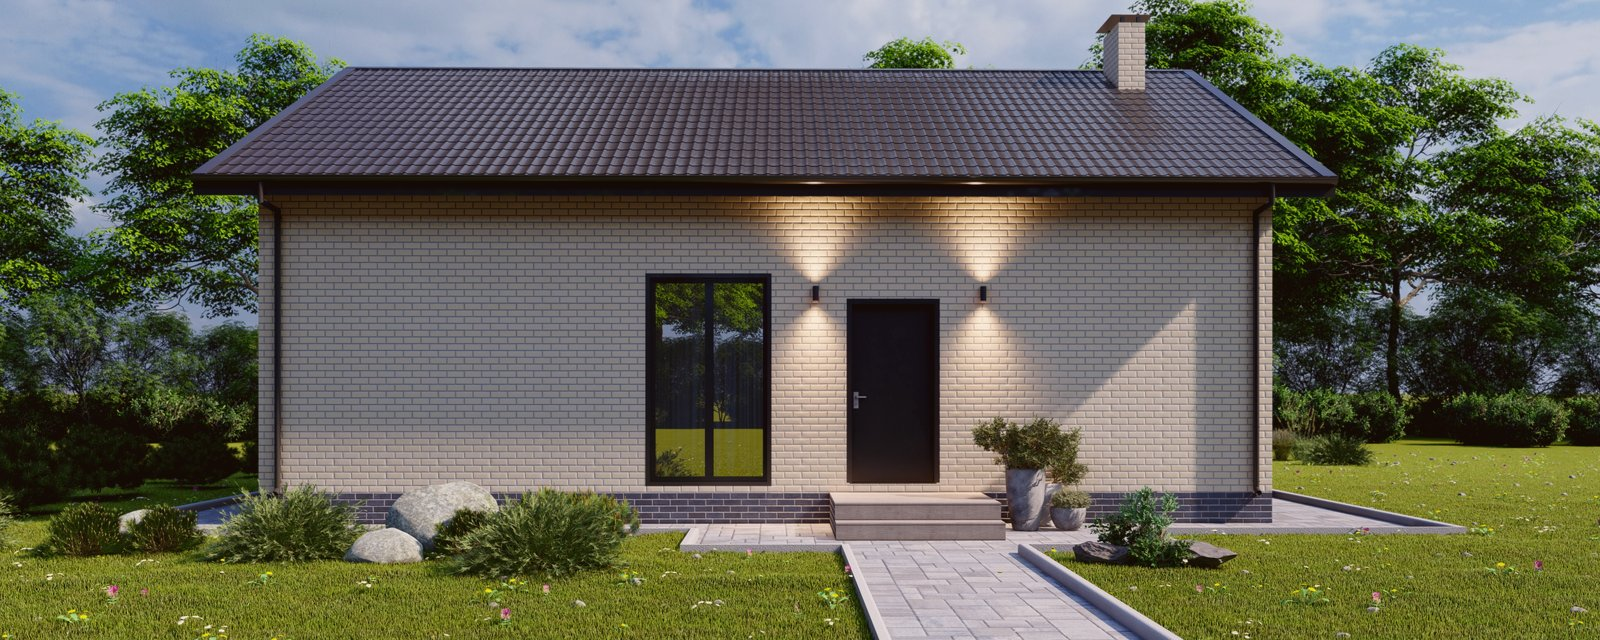
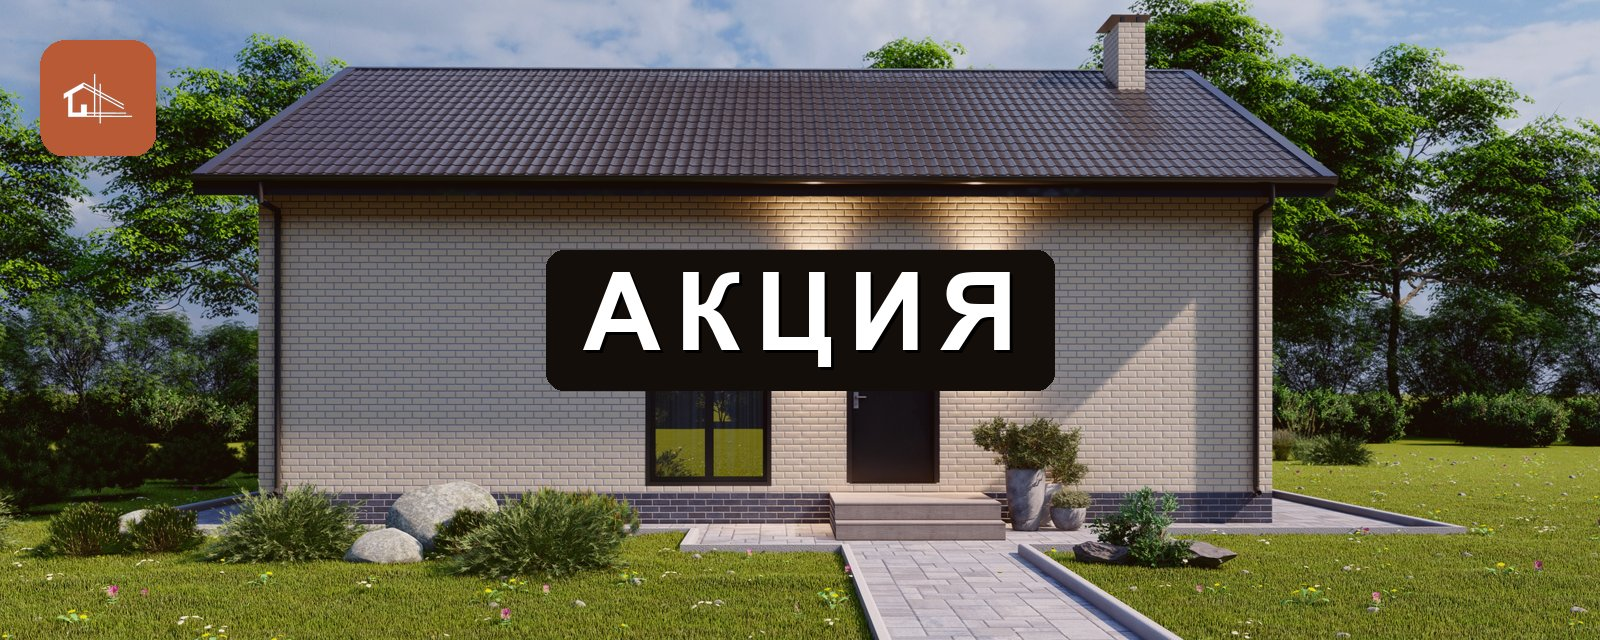
feat(promotions): лого + «АКЦИЯ» на баннерах, фикс пропорций под них
generate_promo_banners.py теперь впечатывает в картинку фирменную
лого-плашку (терракотовый квадрат + белый домик, как в og.png, но из
прозрачного logo.png) в левый верхний угол и крупное «АКЦИЯ» по
центру с тенью — баннер выглядит завершённым рекламным креативом сам
по себе.

Из-за этого блок баннера на сайте (PromoBanner + хедер /akcii/[slug])
теперь фиксирует пропорции 2.5:1 под картинку явно (aspect-[2.5/1]) —
раньше высота блока определялась содержимым, и произвольный
object-cover обрезал верх фото вместе с лого. Динамический текст
(скидка/срок/CTA) переехал в компактную плашку снизу, чтобы не
накладываться на зашитые в картинку лого и «АКЦИЯ».

Changed region(s): [[0.3438, 0.375, 0.6562, 0.625], [0.0, 0.0625, 0.125, 0.25]]

diff --git a/frontend/src/components/PromoBanner.tsx b/frontend/src/components/PromoBanner.tsx
@@ -14,34 +14,64 @@ export default function PromoBanner({ promotion }: { promotion?: Promotion | nul
 
   const hasImage = Boolean(promotion.banner_image);
 
+  // Готовая картинка баннера (banner_image) — это законченный рекламный
+  // креатив: фото дома + фирменный лого в углу + слово «АКЦИЯ» вшиты
+  // прямо в файл (см. backend/scripts/generate_promo_banners.py).
+  // Блок фиксируем по её пропорциям (2.5:1), иначе flex-контейнер
+  // произвольной высоты обрежет верх картинки через object-cover —
+  // лого и текст на фото могут просто не попасть в кадр.
+  // Динамический текст (цена/даты/CTA) едет в нижнюю плашку, чтобы не
+  // накладываться на зашитые в картинку элементы.
+  if (hasImage) {
+    return (
+      <section className="container-rs pt-8 sm:pt-12">
+        <div className="relative overflow-hidden rounded-[var(--rs-radius)] shadow-[var(--rs-shadow)] aspect-[2.5/1]">
+          <Image
+            src={resolveMediaUrl(promotion.banner_image)}
+            alt=""
+            fill
+            sizes="(min-width: 1200px) 1200px, 100vw"
+            quality={70}
+            className="object-cover"
+            priority
+          />
+          <div className="absolute inset-0 promo-banner-bottom-overlay" />
+          <div className="absolute inset-x-0 bottom-0 p-3 sm:p-6 flex items-center justify-between gap-3">
+            <div className="min-w-0">
+              <span className="hidden sm:inline-flex items-center gap-1.5 text-[11px] font-bold uppercase tracking-wide bg-white/15 px-2.5 py-1 rounded-full text-white">
+                <Flame size={13} /> {promotion.badge_label}
+              </span>
+              <div className="mt-0 sm:mt-1.5 flex flex-wrap gap-x-3 gap-y-0.5 text-[12px] sm:text-[12.5px] text-white/90 font-semibold">
+                <span>Действует до {formatDate(promotion.ends_at)}</span>
+                {houseCount > 0 && (
+                  <span className="hidden sm:inline">
+                    {houseCount} {houseCount === 1 ? "дом участвует" : "дома/домов участвуют"}
+                  </span>
+                )}
+              </div>
+            </div>
+            <Link
+              href={`/akcii/${promotion.slug}`}
+              className="shrink-0 inline-flex items-center gap-1.5 sm:gap-2 bg-white text-[var(--rs-brand-2)] font-bold rounded-full px-3.5 sm:px-5 py-2 sm:py-3 text-[12.5px] sm:text-[14px] hover:bg-white/90 transition-colors"
+            >
+              <span className="hidden sm:inline">Подробнее об акции</span>
+              <span className="sm:hidden">Подробнее</span>
+              <ArrowRight size={16} />
+            </Link>
+          </div>
+        </div>
+      </section>
+    );
+  }
+
   return (
     <section className="container-rs pt-8 sm:pt-12">
-      <div
-        className={`relative overflow-hidden rounded-[var(--rs-radius)] shadow-[var(--rs-shadow)] p-6 sm:p-10 flex flex-col sm:flex-row items-start sm:items-center justify-between gap-6 ${hasImage ? "" : "promo-banner"}`}
-      >
-        {hasImage && (
-          <>
-            <Image
-              src={resolveMediaUrl(promotion.banner_image)}
-              alt=""
-              fill
-              sizes="(min-width: 1200px) 1200px, 100vw"
-              quality={70}
-              className="object-cover"
-              style={{ zIndex: 0 }}
-              priority
-            />
-            <div
-              className="absolute inset-0 promo-banner-overlay"
-              style={{ zIndex: 1 }}
-            />
-          </>
-        )}
-        <div className="min-w-0 relative" style={{ zIndex: 2 }}>
-          <span className="inline-flex items-center gap-1.5 text-[11px] font-bold uppercase tracking-wide bg-white/15 px-2.5 py-1 rounded-full text-white">
+      <div className="promo-banner relative overflow-hidden rounded-[var(--rs-radius)] shadow-[var(--rs-shadow)] p-6 sm:p-10 flex flex-col sm:flex-row items-start sm:items-center justify-between gap-6">
+        <div className="min-w-0">
+          <span className="inline-flex items-center gap-1.5 text-[11px] font-bold uppercase tracking-wide bg-white/15 px-2.5 py-1 rounded-full">
             <Flame size={13} /> {promotion.badge_label}
           </span>
-          <h2 className="h-display mt-3 font-extrabold leading-tight text-white text-[24px] sm:text-[32px]">
+          <h2 className="h-display mt-3 font-extrabold leading-tight text-[24px] sm:text-[32px]">
             {title}
           </h2>
           {subtitle && (
@@ -60,8 +90,7 @@ export default function PromoBanner({ promotion }: { promotion?: Promotion | nul
         </div>
         <Link
           href={`/akcii/${promotion.slug}`}
-          className="relative shrink-0 inline-flex items-center gap-2 bg-white text-[var(--rs-brand-2)] font-bold rounded-full px-5 py-3 text-[14px] hover:bg-white/90 transition-colors"
-          style={{ zIndex: 2 }}
+          className="shrink-0 inline-flex items-center gap-2 bg-white text-[var(--rs-brand-2)] font-bold rounded-full px-5 py-3 text-[14px] hover:bg-white/90 transition-colors"
         >
           Подробнее об акции <ArrowRight size={16} />
         </Link>

diff --git a/frontend/src/app/akcii/[slug]/page.tsx b/frontend/src/app/akcii/[slug]/page.tsx
@@ -44,25 +44,35 @@ export default async function PromotionPage({ params }: { params: Promise<{ slug
       </div>
 
       <div className="container-rs">
-        <div
-          className={`relative overflow-hidden rounded-[var(--rs-radius)] shadow-[var(--rs-shadow)] p-6 sm:p-10 ${p.banner_image ? "" : "promo-banner"}`}
-        >
-          {p.banner_image && (
-            <>
-              <Image
-                src={resolveMediaUrl(p.banner_image)}
-                alt=""
-                fill
-                sizes="(min-width: 1200px) 1200px, 100vw"
-                quality={70}
-                className="object-cover"
-                style={{ zIndex: 0 }}
-                priority
-              />
-              <div className="absolute inset-0 promo-banner-overlay" style={{ zIndex: 1 }} />
-            </>
-          )}
-          <div className="relative" style={{ zIndex: 2 }}>
+        {p.banner_image ? (
+          // banner_image — готовый креатив (фото + лого + «АКЦИЯ» уже
+          // вшиты в файл, см. generate_promo_banners.py). Фиксируем блок
+          // по её пропорциям, иначе object-cover при произвольной высоте
+          // обрежет верх картинки и лого пропадёт из кадра. Заголовок —
+          // компактной плашкой снизу, полный текст акции — в карточке
+          // «Условия акции» ниже, тут не дублируем.
+          <div className="relative overflow-hidden rounded-[var(--rs-radius)] shadow-[var(--rs-shadow)] aspect-[2.5/1]">
+            <Image
+              src={resolveMediaUrl(p.banner_image)}
+              alt=""
+              fill
+              sizes="(min-width: 1200px) 1200px, 100vw"
+              quality={70}
+              className="object-cover"
+              priority
+            />
+            <div className="absolute inset-0 promo-banner-bottom-overlay" />
+            <div className="absolute inset-x-0 bottom-0 p-4 sm:p-8">
+              <span className="hidden sm:inline-flex items-center gap-1.5 text-[11px] font-bold uppercase tracking-wide bg-white/15 px-2.5 py-1 rounded-full text-white">
+                <Flame size={13} /> {p.badge_label}
+              </span>
+              <h1 className="h-display mt-0 sm:mt-2 font-extrabold leading-tight text-white text-[20px] sm:text-[32px] line-clamp-2">
+                {p.banner_title || p.title}
+              </h1>
+            </div>
+          </div>
+        ) : (
+          <div className="promo-banner relative overflow-hidden rounded-[var(--rs-radius)] shadow-[var(--rs-shadow)] p-6 sm:p-10">
             <span className="inline-flex items-center gap-1.5 text-[11px] font-bold uppercase tracking-wide bg-white/15 px-2.5 py-1 rounded-full text-white">
               <Flame size={13} /> {p.badge_label}
             </span>
@@ -75,7 +85,7 @@ export default async function PromotionPage({ params }: { params: Promise<{ slug
               </p>
             )}
           </div>
-        </div>
+        )}
 
         <div className="mt-8 grid gap-6 lg:grid-cols-[minmax(0,1fr)_360px]">
           <div className="min-w-0">

diff --git a/frontend/src/app/globals.css b/frontend/src/app/globals.css
@@ -246,8 +246,8 @@ body {
   border-radius: var(--rs-radius);
   box-shadow: var(--rs-shadow);
 }
-.promo-banner-overlay {
-  background: linear-gradient(100deg, rgba(31,20,12,0.90) 0%, rgba(140,65,38,0.80) 45%, rgba(92,41,22,0.62) 100%);
+.promo-banner-bottom-overlay {
+  background: linear-gradient(to top, rgba(20,14,10,0.90) 0%, rgba(20,14,10,0.55) 32%, rgba(20,14,10,0) 62%);
 }
 .price-old {
   text-decoration: line-through;

diff --git a/backend/scripts/generate_promo_banners.py b/backend/scripts/generate_promo_banners.py
@@ -2,8 +2,11 @@
 фото дома, как оно выведено в каталоге (первое по полю order).
 
 Cover-resize до 1600×640 (широкий формат баннера) + лёгкая фирменная
-тонировка. Текст (бейдж/цена/даты) поверх рисует React через
-.promo-banner-overlay, поэтому сюда текст не добавляем.
+тонировка, фирменный лого-плашка слева сверху (как в og.png, но
+собрана из прозрачного logo.png — чтобы не тащить светлый фон og.png)
+и крупная надпись «АКЦИЯ» по центру с тенью — чтобы файл выглядел
+завершённым рекламным баннером сам по себе, независимо от того, что
+поверх него ещё рисует React (.promo-banner-overlay) на сайте.
 
 Запуск: cd backend && .venv/bin/python scripts/generate_promo_banners.py
 """
@@ -17,14 +20,18 @@ os.environ.setdefault("DJANGO_SETTINGS_MODULE", "config.settings")
 import django  # noqa: E402
 django.setup()
 
-from PIL import Image, ImageEnhance  # noqa: E402
+from PIL import Image, ImageDraw, ImageEnhance, ImageFilter, ImageFont  # noqa: E402
 from apps.builds.models import Build  # noqa: E402
 
 ROOT = Path(__file__).resolve().parent.parent
+FRONTEND_PUBLIC = ROOT.parent / "frontend" / "public"
+LOGO = FRONTEND_PUBLIC / "logo.png"
 OUT = ROOT / "apps" / "promotions" / "seed_assets"
 
 W, H = 1600, 640
 BRAND = (184, 90, 53)
+
+FONT_BOLD = "/System/Library/Fonts/Supplemental/Arial Bold.ttf"
 
 # out filename -> build slug
 TARGETS = {
@@ -56,6 +63,73 @@ def warm_tone(img: Image.Image) -> Image.Image:
     return Image.alpha_composite(img.convert("RGBA"), overlay).convert("RGB")
 
 
+def make_logo_plate(size: int) -> Image.Image:
+    """Скруглённая терракотовая плашка с белым домиком — тот же знак,
+    что в og.png, но из прозрачного logo.png (чисто накладывается на
+    любое фото, без светлого фона og.png)."""
+    pad = int(size * 0.16)
+    plate = Image.new("RGBA", (size, size), (*BRAND, 255))
+    mask = Image.new("L", (size, size), 0)
+    ImageDraw.Draw(mask).rounded_rectangle(
+        (0, 0, size, size), radius=int(size * 0.22), fill=255
+    )
+    plate.putalpha(mask)
+
+    logo_size = size - pad * 2
+    logo = Image.open(LOGO).convert("RGBA").resize((logo_size, logo_size), Image.LANCZOS)
+    px = logo.load()
+    for y in range(logo.height):
+        for x in range(logo.width):
+            r, g, b, a = px[x, y]
+            if a > 0:
+                px[x, y] = (255, 255, 255, a)
+    plate.paste(logo, (pad, pad), logo)
+    return plate
+
+
+def paste_with_shadow(base: Image.Image, layer: Image.Image, xy, blur=14, alpha=110):
+    """Мягкая тень под плашкой — чтобы читалась на любом фоне фото."""
+    shadow = Image.new("RGBA", base.size, (0, 0, 0, 0))
+    shadow_shape = Image.new("RGBA", layer.size, (0, 0, 0, 0))
+    shadow_shape.paste((0, 0, 0, alpha), (0, 0), layer)
+    shadow.paste(shadow_shape, (xy[0] + 4, xy[1] + 6), shadow_shape)
+    shadow = shadow.filter(ImageFilter.GaussianBlur(blur))
+    base.alpha_composite(shadow)
+    base.alpha_composite(layer, xy)
+
+
+def draw_center_word(img: Image.Image, text: str):
+    """Крупное «АКЦИЯ» по центру с тенью и лёгкой затемняющей подложкой —
+    читается на любом фото, независимо от его яркости в этом месте."""
+    draw = ImageDraw.Draw(img, "RGBA")
+    font = ImageFont.truetype(FONT_BOLD, 108)
+
+    # Ручной леттер-спейсинг — так короткое слово смотрится как баннерный заголовок.
+    spacing = 14
+    widths = [draw.textlength(ch, font=font) for ch in text]
+    total_w = sum(widths) + spacing * (len(text) - 1)
+    bbox = draw.textbbox((0, 0), text, font=font)
+    text_h = bbox[3] - bbox[1]
+
+    cx, cy = img.width / 2, img.height / 2
+    start_x = cx - total_w / 2
+    top_y = cy - text_h / 2 - bbox[1]
+
+    # Затемняющая подложка под словом — гарантирует контраст на любом фото.
+    pad_x, pad_y = 36, 22
+    draw.rounded_rectangle(
+        (start_x - pad_x, top_y - pad_y + bbox[1], start_x + total_w + pad_x, top_y + text_h + pad_y + bbox[1]),
+        radius=18, fill=(20, 14, 10, 92),
+    )
+
+    x = start_x
+    for ch, w in zip(text, widths):
+        for ox, oy in ((2, 2), (3, 3)):
+            draw.text((x + ox, top_y + oy), ch, fill=(0, 0, 0, 130), font=font)
+        draw.text((x, top_y), ch, fill=(255, 255, 255, 255), font=font)
+        x += w + spacing
+
+
 def main():
     OUT.mkdir(parents=True, exist_ok=True)
     for out_name, slug in TARGETS.items():
@@ -70,10 +144,17 @@ def main():
 
         img = Image.open(cover.image.path).convert("RGB")
         img = cover_resize(img, W, H)
-        img = warm_tone(img)
+        img = warm_tone(img).convert("RGBA")
+
+        logo_size = 116
+        margin = 40
+        plate = make_logo_plate(logo_size)
+        paste_with_shadow(img, plate, (margin, margin))
+
+        draw_center_word(img, "АКЦИЯ")
 
         out_path = OUT / out_name
-        img.save(out_path, "JPEG", quality=85, optimize=True, progressive=True)
+        img.convert("RGB").save(out_path, "JPEG", quality=85, optimize=True, progressive=True)
         print(f"  ✓ {out_path.relative_to(ROOT)}  ← {cover.image.name}  ({out_path.stat().st_size // 1024} KB)")
 
 
